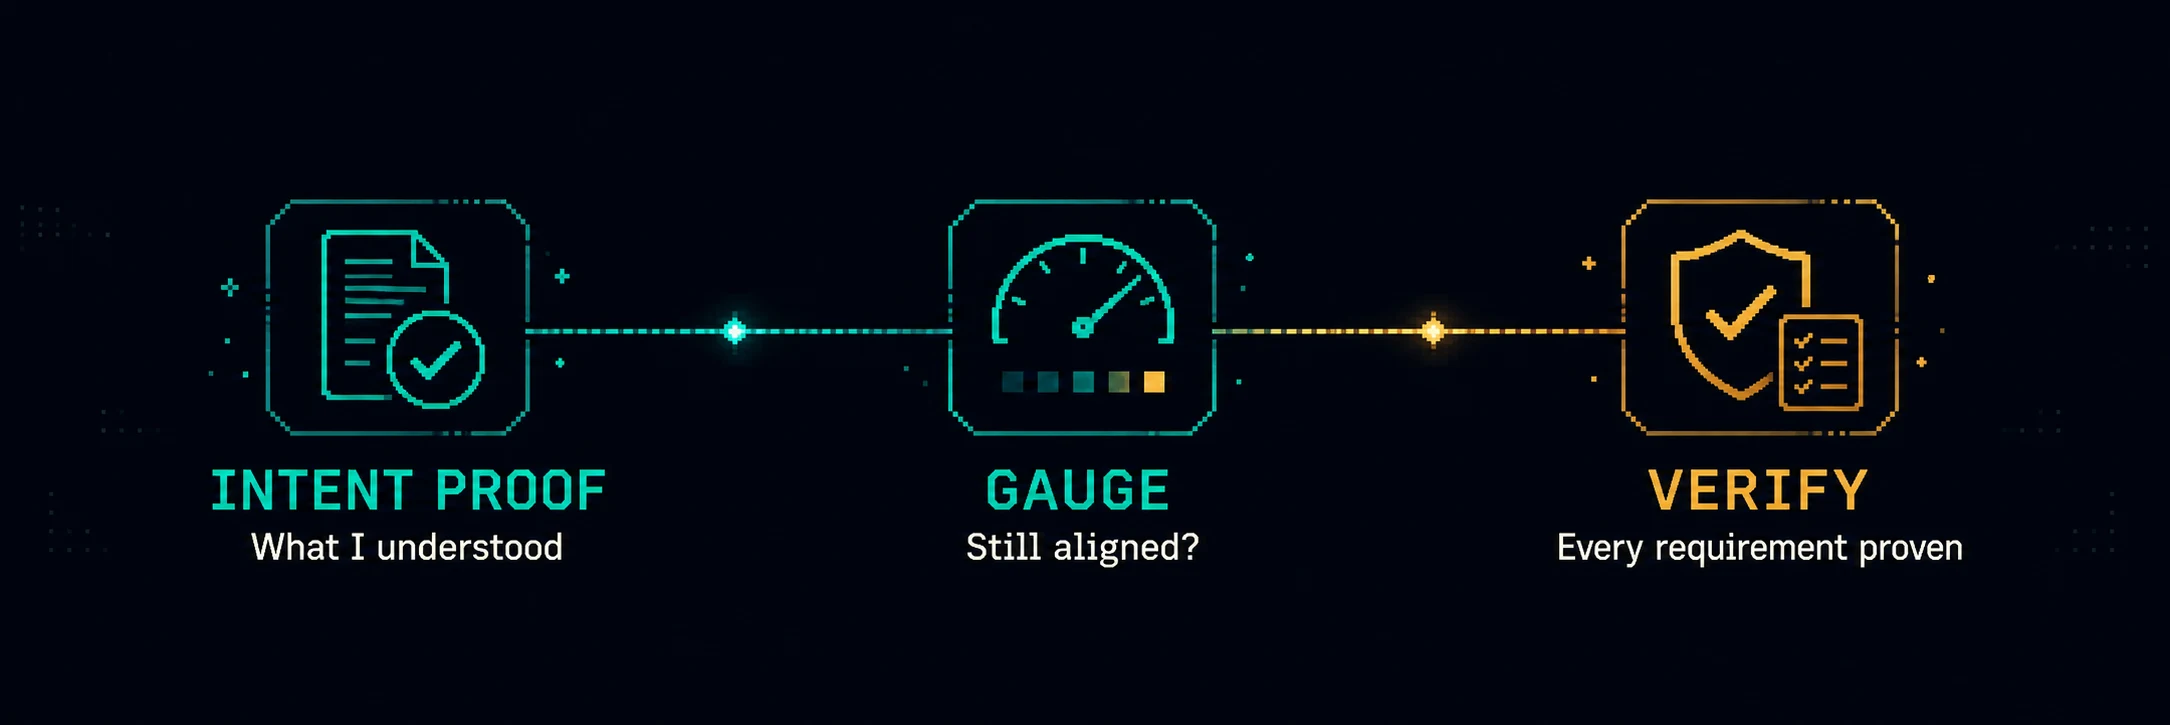
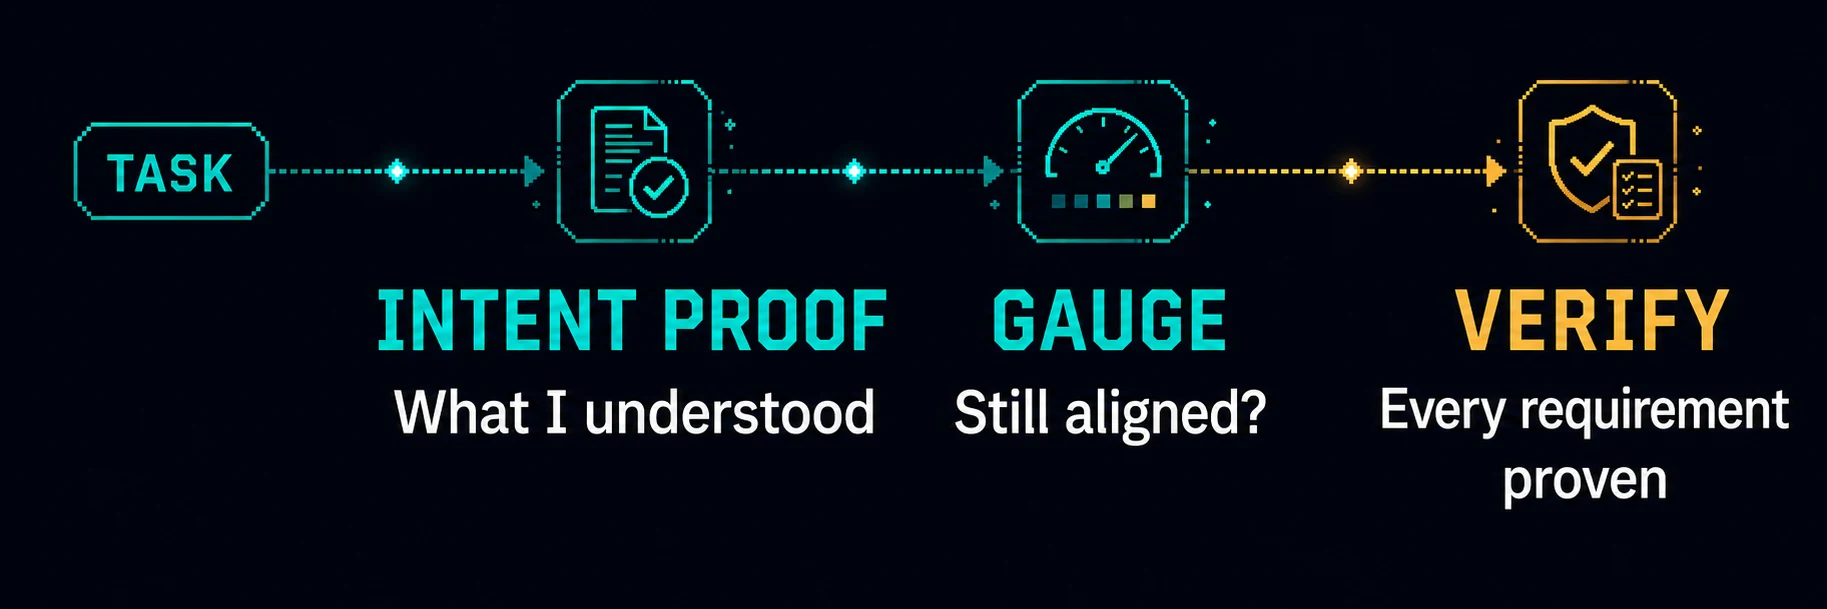
docs: improve hero mobile readability

Changed region(s): [[0.0312, 0.1248, 0.9984, 0.8424]]

diff --git a/README.md b/README.md
@@ -6,10 +6,10 @@ Tink makes Claude Code and Codex prove what they understood, detect drift while 
 
 **Intent Proof → Gauge → Evidence-based Verify**
 
-<sub>Local files only. No server, telemetry, or hidden state.</sub>
+<sub>Local files only—no server, telemetry, or hidden state.</sub>
 
 <p align="center">
-  <img src=".github/assets/hero-v2.webp" alt="Tink workflow: Intent Proof reveals understanding, Gauge detects drift, and Verify proves every requirement" width="100%">
+  <img src=".github/assets/hero-v2.webp" alt="Tink workflow: a task enters Intent Proof, Gauge checks alignment, and Verify proves every requirement" width="100%">
 </p>
 
 <p>
